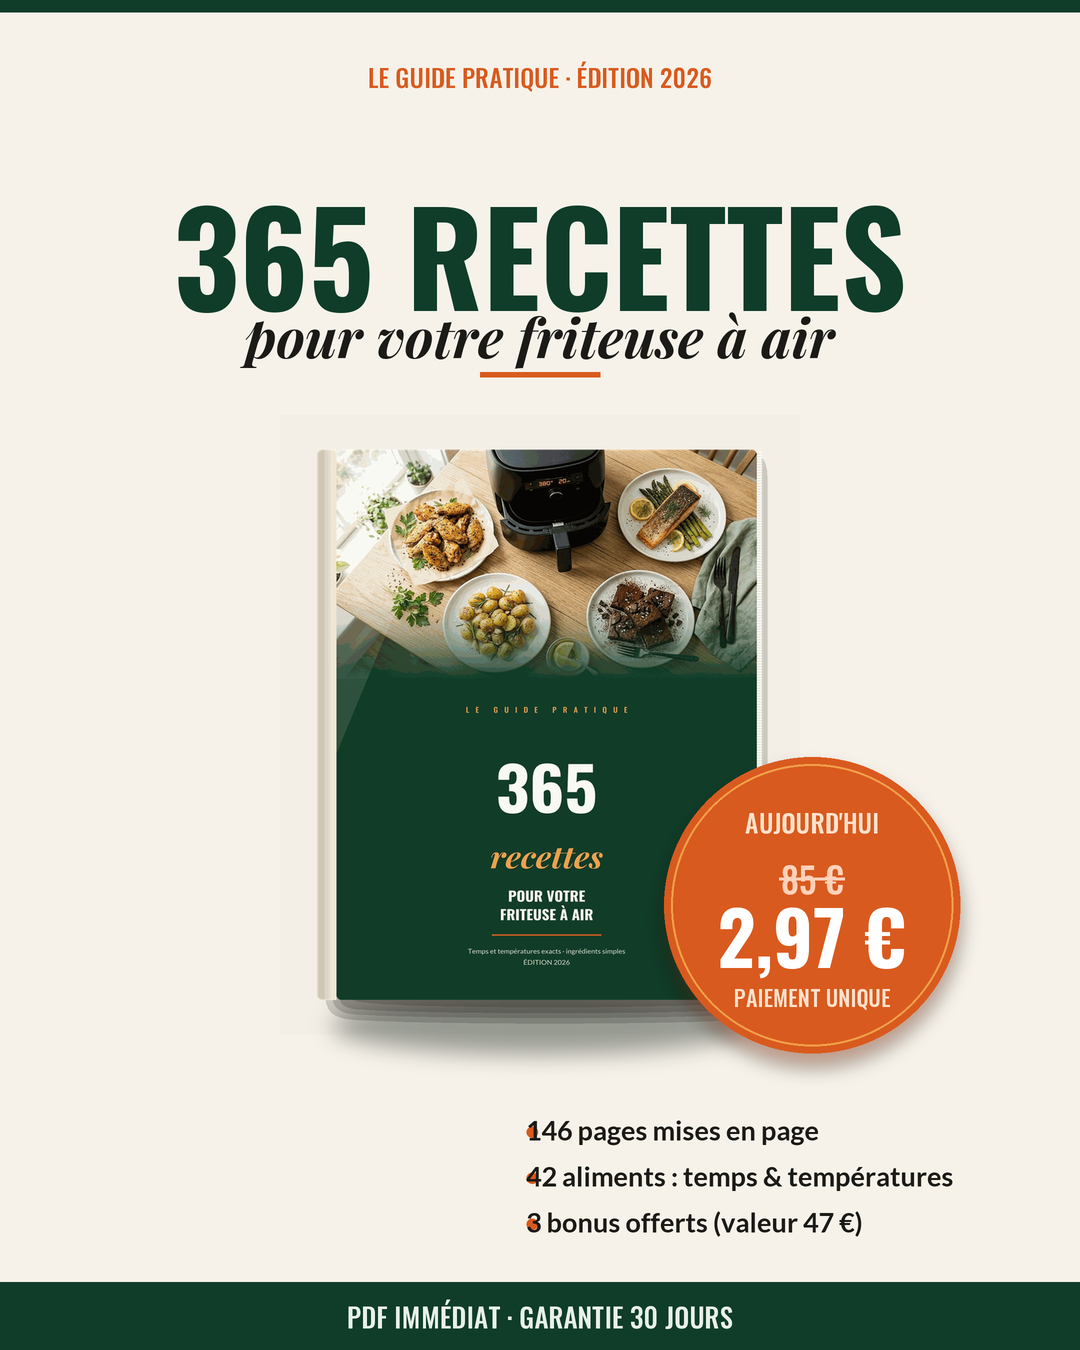
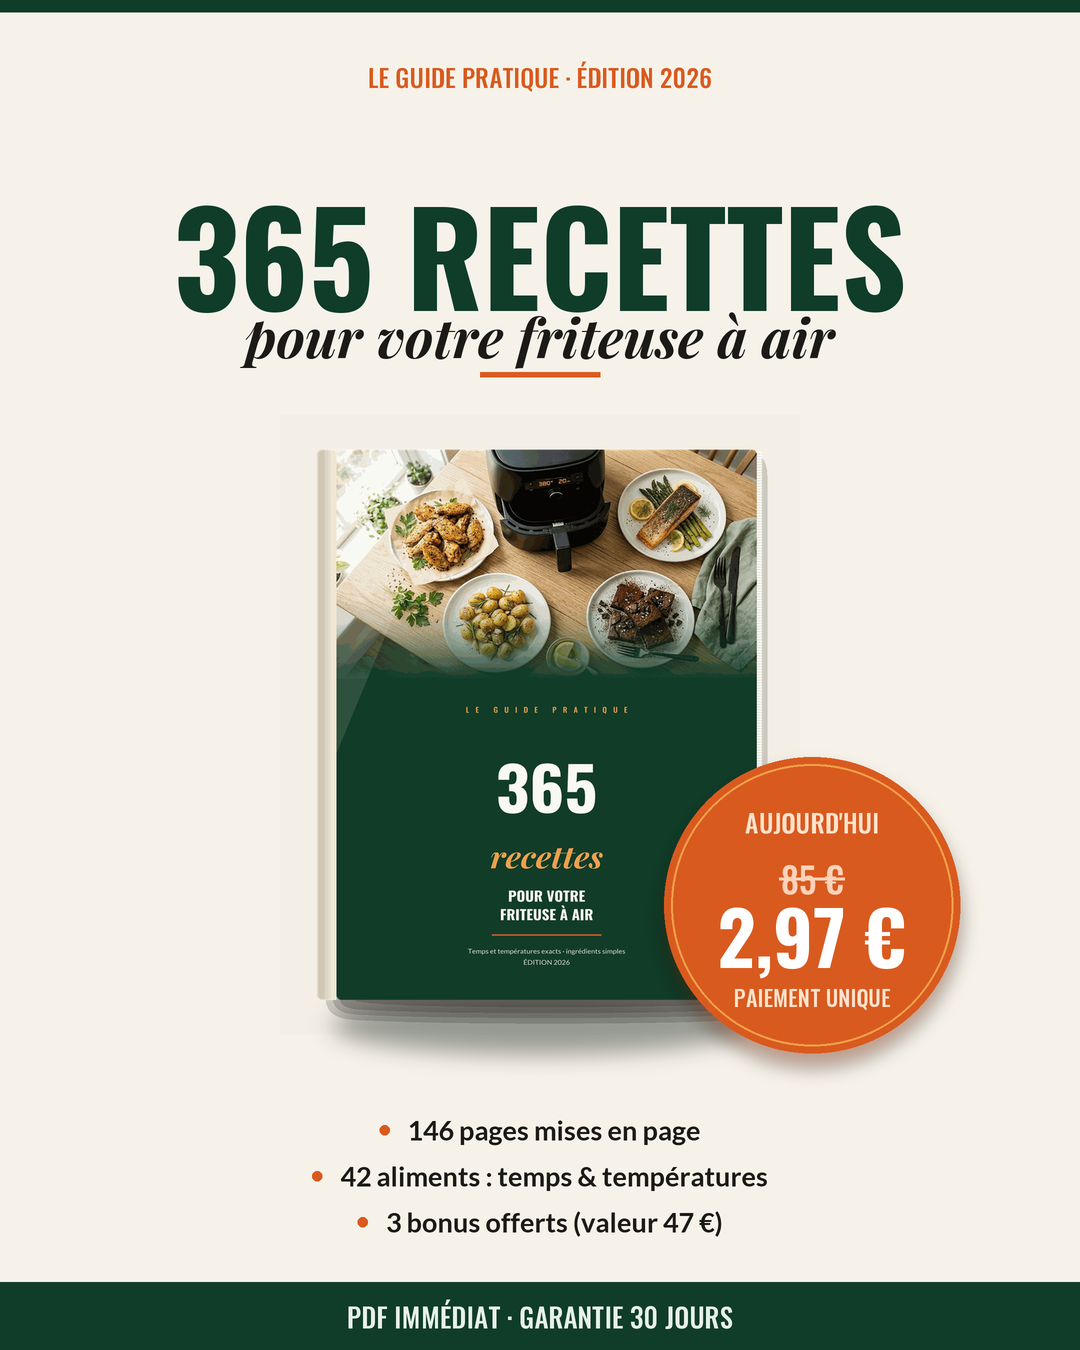
Creatif 1: puces alignees hors du texte

Changed region(s): [[0.3361, 0.8089, 0.8861, 0.9333]]

diff --git a/france/tools/make-ads-premium.py b/france/tools/make-ads-premium.py
@@ -188,13 +188,16 @@ def creative_book_badge():
     lines = ["146 pages mises en page",
              "42 aliments : temps & températures",
              "3 bonus offerts (valeur 47 €)"]
+    gap = 18
     y = 1130
     for t in lines:
-        tw = d.textlength(t, font=f_b)
-        box_w = tw + 46 * SCALE
-        cx = W / 2 * SCALE
-        d.text((cx, y * SCALE), "•", font=f_b, fill=ORANGE, anchor="rm")
-        d.text((cx - 14 * SCALE, y * SCALE), t, font=f_b, fill=INK, anchor="lm")
+        tw = d.textlength(t, font=f_b) / SCALE
+        bw = 10
+        total = bw + gap + tw
+        x = (W - total) / 2
+        d.ellipse([x * SCALE, (y - bw / 2) * SCALE,
+                   (x + bw) * SCALE, (y + bw / 2) * SCALE], fill=ORANGE)
+        d.text(((x + bw + gap) * SCALE, y * SCALE), t, font=f_b, fill=INK, anchor="lm")
         y += 46
 
     # barre CTA
